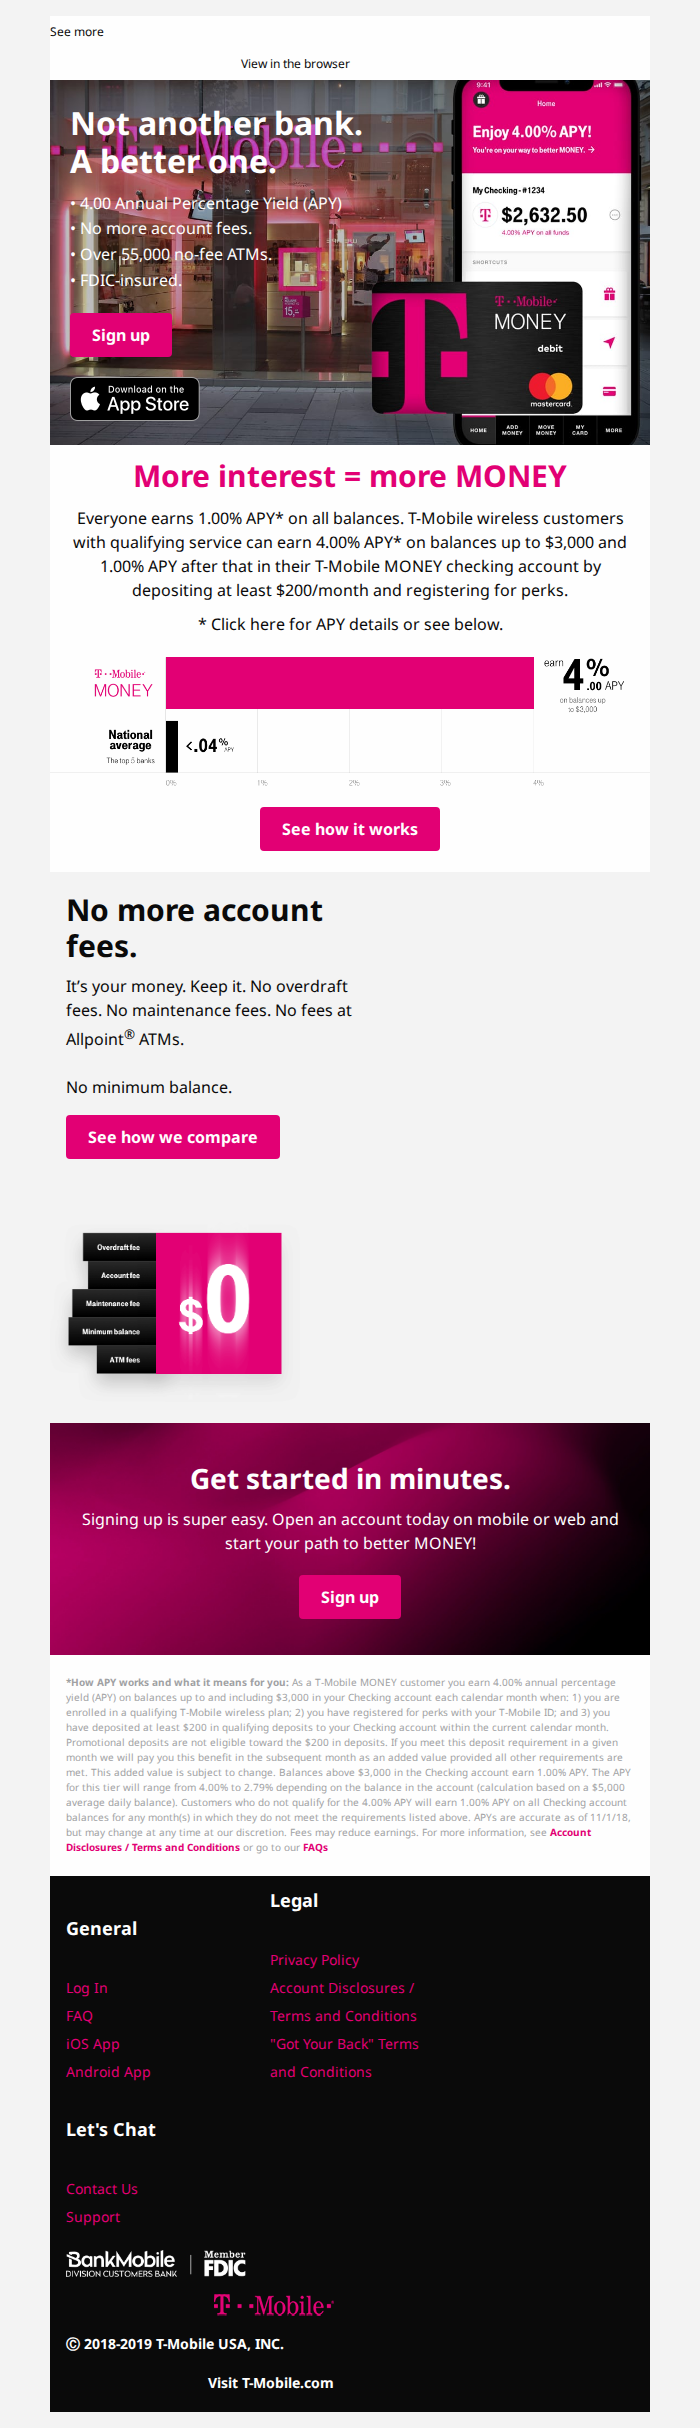
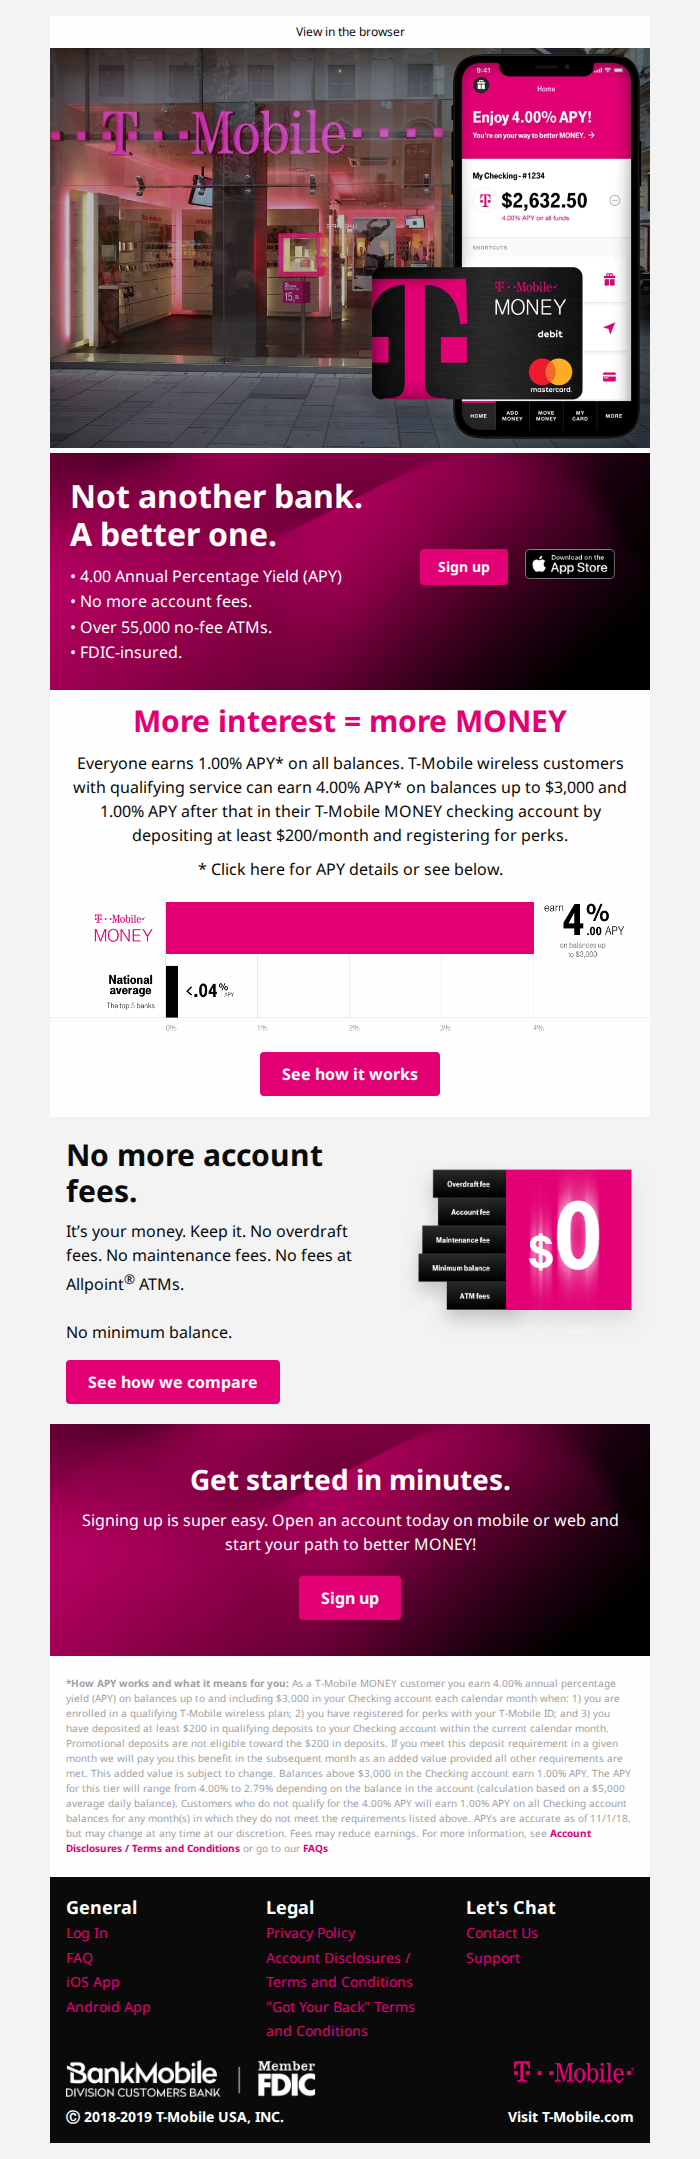
t-mobile email

diff --git a/components/TmobileFooter.vue b/components/TmobileFooter.vue
@@ -1,17 +1,17 @@
 <template>
   <Container class="bg-tmobile-black">
-    <Row>
-      <Column class="w-4/12 sm:w-full">
+    <Row style="font-size: 0;">
+      <Column class="w-4/12 align-top sm:w-full">
         <Section class="px-4">
-          <Spacer class="h-2.5" />
+          <Spacer class="h-4" />
           <Heading
-            as="h3"
+            level="3"
             class="m-0 font-noto-sans text-lg font-bold text-tmobile-white"
           >
             General
           </Heading>
-          <Spacer class="h-2" />
-          <Text class="m-0 font-noto-sans text-sm leading-[2] text-tmobile-white">
+          <Spacer class="h-1.5" />
+          <Text class="m-0 font-noto-sans text-sm leading-[1.75] text-tmobile-white">
             <Link href="/#" class="text-sm text-tmobile-magenta no-underline">
               Log In
             </Link>
@@ -37,20 +37,20 @@
               Android App
             </Link>
           </Text>
-          <Spacer class="h-4" />
+          <Spacer class="h-2" />
         </Section>
       </Column>
-      <Column class="w-4/12 sm:w-full">
+      <Column class="w-4/12 align-top sm:w-full">
         <Section class="px-4">
-          <Spacer class="h-2.5" />
+          <Spacer class="h-4" />
           <Heading
-            as="h3"
+            level="3"
             class="m-0 font-noto-sans text-lg font-bold text-tmobile-white"
           >
             Legal
           </Heading>
-          <Spacer class="h-2" />
-          <Text class="m-0 font-noto-sans text-sm leading-[2] text-tmobile-white">
+          <Spacer class="h-1.5" />
+          <Text class="m-0 font-noto-sans text-sm leading-[1.75] text-tmobile-white">
             <Link
               href="/en/privacy-policy.html"
               class="text-sm text-tmobile-magenta no-underline"
@@ -72,20 +72,20 @@
               &#34;Got Your Back&#34; Terms and Conditions
             </Link>
           </Text>
-          <Spacer class="h-4" />
+          <Spacer class="h-2" />
         </Section>
       </Column>
-      <Column class="w-4/12 sm:w-full">
+      <Column class="w-4/12 align-top sm:w-full">
         <Section class="px-4">
-          <Spacer class="h-2.5" />
+          <Spacer class="h-4" />
           <Heading
-            as="h3"
+            level="3"
             class="m-0 font-noto-sans text-lg font-bold text-tmobile-white"
           >
             Let&#39;s Chat
           </Heading>
-          <Spacer class="h-2" />
-          <Text class="m-0 font-noto-sans text-sm leading-[2] text-tmobile-white">
+          <Spacer class="h-1.5" />
+          <Text class="m-0 font-noto-sans text-sm leading-[1.75] text-tmobile-white">
             <Link
               href="/en/support.html"
               class="text-sm text-tmobile-magenta no-underline"
@@ -100,43 +100,45 @@
               Support
             </Link>
           </Text>
-          <Spacer class="h-4" />
+          <Spacer class="h-2" />
         </Section>
       </Column>
     </Row>
-    <Row>
-      <Column class="w-6/12 sm:w-full">
+    <Row style="font-size: 0;">
+      <Column class="w-6/12 align-top sm:w-full">
+        <Spacer class="h-4" />
         <Section class="px-4">
           <Img
             src="/tmobile-email/bm-fdic-logo.png"
             alt="BankMobile Division Customers Bank, Member FDIC"
-            width="180"
+            width="250"
           />
         </Section>
         <Spacer class="h-2.5" />
       </Column>
-      <Column class="w-6/12 sm:w-full">
-        <Section class="px-4 text-right">
+      <Column class="w-6/12 align-top sm:w-full">
+        <Spacer class="h-4" />
+        <Section class="px-4 text-right sm:text-center">
           <Img
             src="/tmobile-email/tmobile-logo.png"
             alt="T-Mobile"
             width="120"
-            class="ml-auto"
+            class="ml-auto sm:mx-auto sm:block"
           />
         </Section>
         <Spacer class="h-2.5" />
       </Column>
     </Row>
-    <Row>
-      <Column class="w-6/12 sm:w-full">
+    <Row style="font-size: 0;">
+      <Column class="w-6/12 align-top sm:w-full">
         <Text class="m-0 px-4 font-noto-sans text-sm font-bold text-tmobile-white">
           &#9400; 2018-2019 T-Mobile USA, INC.
         </Text>
         <Spacer class="h-4" />
       </Column>
-      <Column class="w-6/12 sm:w-full">
+      <Column class="w-6/12 align-top sm:w-full">
         <Text
-          class="m-0 px-4 text-right font-noto-sans text-sm font-bold text-tmobile-white"
+          class="m-0 px-4 text-right font-noto-sans text-sm font-bold text-tmobile-white sm:text-center"
         >
           Visit T-Mobile.com
         </Text>

diff --git a/components/TmobileHero.vue b/components/TmobileHero.vue
@@ -16,15 +16,28 @@ const props = defineProps({
 </script>
 
 <template>
-  <Container
-    class="bg-tmobile-black bg-cover bg-center"
-    style="background-image: url('/tmobile-email/tmobile-money-store.jpg');"
-  >
+  <Container class="bg-tmobile-white">
     <Row>
       <Column class="w-full">
+        <Img
+          src="/tmobile-email/tmobile-money-store.jpg"
+          alt="T-Mobile storefront with the T-Mobile MONEY app and debit card"
+          width="600"
+          class="block w-full"
+        />
+      </Column>
+    </Row>
+  </Container>
+
+  <Container
+    class="bg-tmobile-black bg-cover bg-center"
+    style="background-image: url('/tmobile-email/tmobile-purple-bg.jpg');"
+  >
+    <Row style="font-size: 0;">
+      <Column class="w-7/12 align-top sm:w-full">
         <Spacer class="h-6" />
         <Heading
-          as="h1"
+          level="1"
           class="m-0 px-5 font-noto-sans text-[32px] font-bold leading-[1.2] text-tmobile-white"
         >
           Not another bank.<br />A better one.
@@ -36,22 +49,31 @@ const props = defineProps({
           • Over {{ props.atms }} no-fee ATMs.<br />
           • FDIC-insured.
         </Text>
-        <Spacer class="h-5" />
+        <Spacer class="h-6" />
+      </Column>
+      <Column class="w-5/12 align-top sm:w-full">
+        <Spacer class="h-9" />
+        <Spacer class="h-9" />
+        <Spacer class="h-6" />
+        <Spacer class="h-4" />
         <Section class="px-5">
-          <Button
-            :href="props.signupLink"
-            class="inline-block border-2 border-solid border-tmobile-magenta bg-tmobile-magenta px-5 py-2 font-noto-sans text-base font-bold text-tmobile-white no-underline"
-          >
-            Sign up
-          </Button>
-        </Section>
-        <Spacer class="h-5" />
-        <Section class="px-5">
-          <Img
-            src="/tmobile-email/btn-app-store.png"
-            alt="Download on the App Store"
-            width="130"
-          />
+          <Row style="font-size: 0;">
+            <Column class="w-6/12 align-top sm:w-full sm:text-center">
+              <Button
+                :href="props.signupLink"
+                class="inline-block border-2 border-solid border-tmobile-magenta bg-tmobile-magenta px-4 py-1.5 font-noto-sans text-sm font-bold text-tmobile-white no-underline"
+              >
+                Sign up
+              </Button>
+            </Column>
+            <Column class="w-6/12 align-top sm:w-full sm:text-center">
+              <Img
+                src="/tmobile-email/btn-app-store.png"
+                alt="Download on the App Store"
+                width="90"
+              />
+            </Column>
+          </Row>
         </Section>
         <Spacer class="h-6" />
       </Column>

diff --git a/components/TmobileMoreMoney.vue b/components/TmobileMoreMoney.vue
@@ -36,7 +36,7 @@ const compareLink =
       <Column class="w-full text-center">
         <Spacer class="h-2.5" />
         <Heading
-          as="h2"
+          level="2"
           class="m-0 px-4 font-noto-sans text-[30px] font-bold text-tmobile-magenta"
         >
           More interest = more MONEY
@@ -82,12 +82,12 @@ const compareLink =
   </Container>
 
   <Container class="bg-tmobile-light-gray">
-    <Row>
-      <Column class="w-7/12 sm:w-full">
+    <Row style="font-size: 0;">
+      <Column class="w-7/12 align-top sm:w-full">
         <Spacer class="h-5" />
         <Section class="px-4">
           <Heading
-            as="h2"
+            level="2"
             class="m-0 font-noto-sans text-[30px] font-bold leading-[1.2] text-tmobile-black"
           >
             No more account<br />fees.
@@ -108,7 +108,7 @@ const compareLink =
         </Section>
         <Spacer class="h-5" />
       </Column>
-      <Column class="w-5/12 sm:w-full">
+      <Column class="w-5/12 align-top sm:w-full">
         <Spacer class="h-5" />
         <Img
           src="/tmobile-email/home-fees-image.png"

diff --git a/components/TmobileHeader.vue b/components/TmobileHeader.vue
@@ -1,13 +1,8 @@
 <template>
   <Container class="bg-tmobile-white">
     <Row>
-      <Column class="w-6/12 sm:w-full">
-        <Text class="m-0 py-2 text-left font-noto-sans text-xs text-tmobile-black">
-          See more
-        </Text>
-      </Column>
-      <Column class="w-6/12 sm:w-full">
-        <Text class="m-0 py-2 text-right font-noto-sans text-xs text-tmobile-black">
+      <Column class="w-full">
+        <Text class="m-0 py-2 text-center font-noto-sans text-xs text-tmobile-black">
           <Link href="http://google.com" class="text-xs text-tmobile-black">
             View in the browser
           </Link>

diff --git a/components/TmobileGetStarted.vue b/components/TmobileGetStarted.vue
@@ -10,13 +10,13 @@ const props = defineProps({
 <template>
   <Container
     class="bg-tmobile-black bg-cover bg-center"
-    style="background-image: url('/tmobile-email/tmobile-purple-bg.png');"
+    style="background-image: url('/tmobile-email/tmobile-purple-bg.jpg');"
   >
     <Row>
       <Column class="w-full text-center">
         <Spacer class="h-9" />
         <Heading
-          as="h3"
+          level="3"
           class="m-0 px-4 font-noto-sans text-[28px] font-bold text-tmobile-white"
         >
           Get started in minutes.

diff --git a/emails/tmobile-email.vue b/emails/tmobile-email.vue
@@ -8,6 +8,7 @@ const dataPoints = tmobileData.dataPoints
 <template>
   <Layout
     class="bg-tmobile-light-gray font-noto-sans"
+    bodyClass="bg-tmobile-light-gray"
     google-font="Noto+Sans:wght@400;700"
     font-family="Noto Sans"
     title="T-mobile MONEY...more than Just a Bank"
